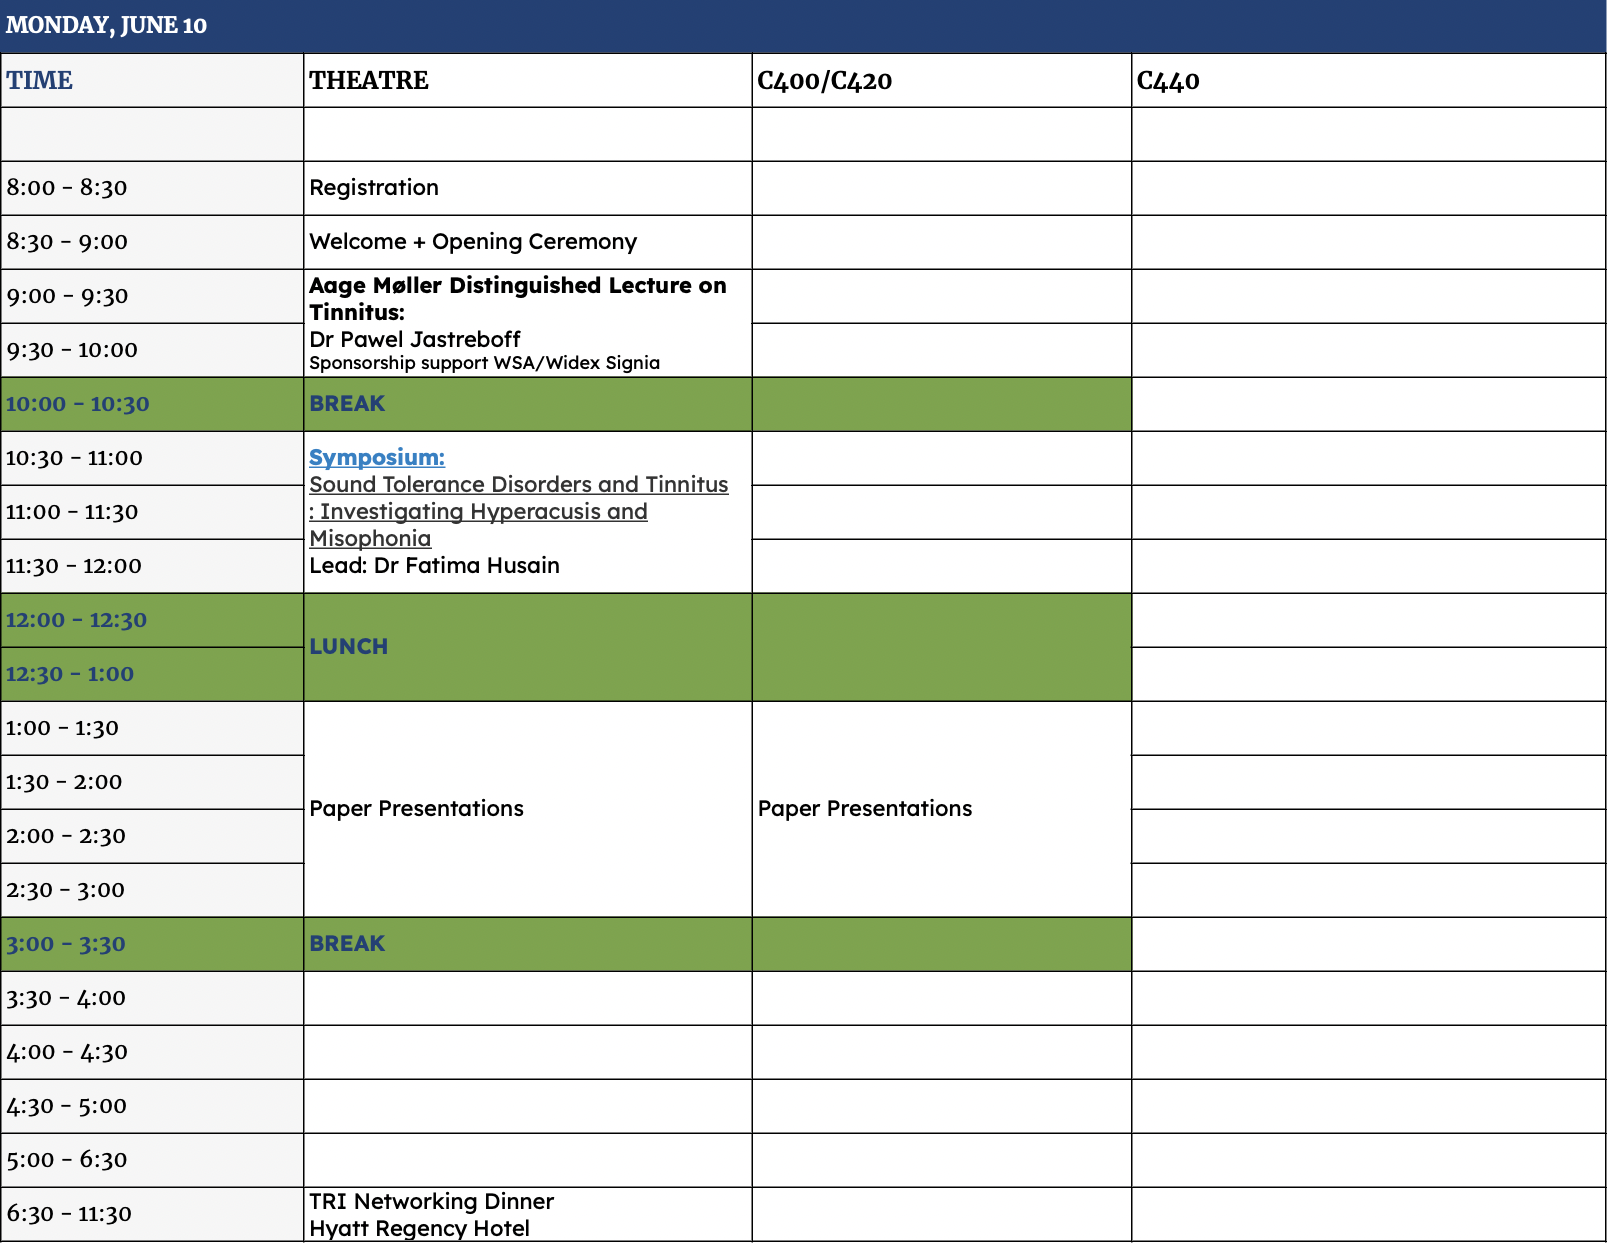
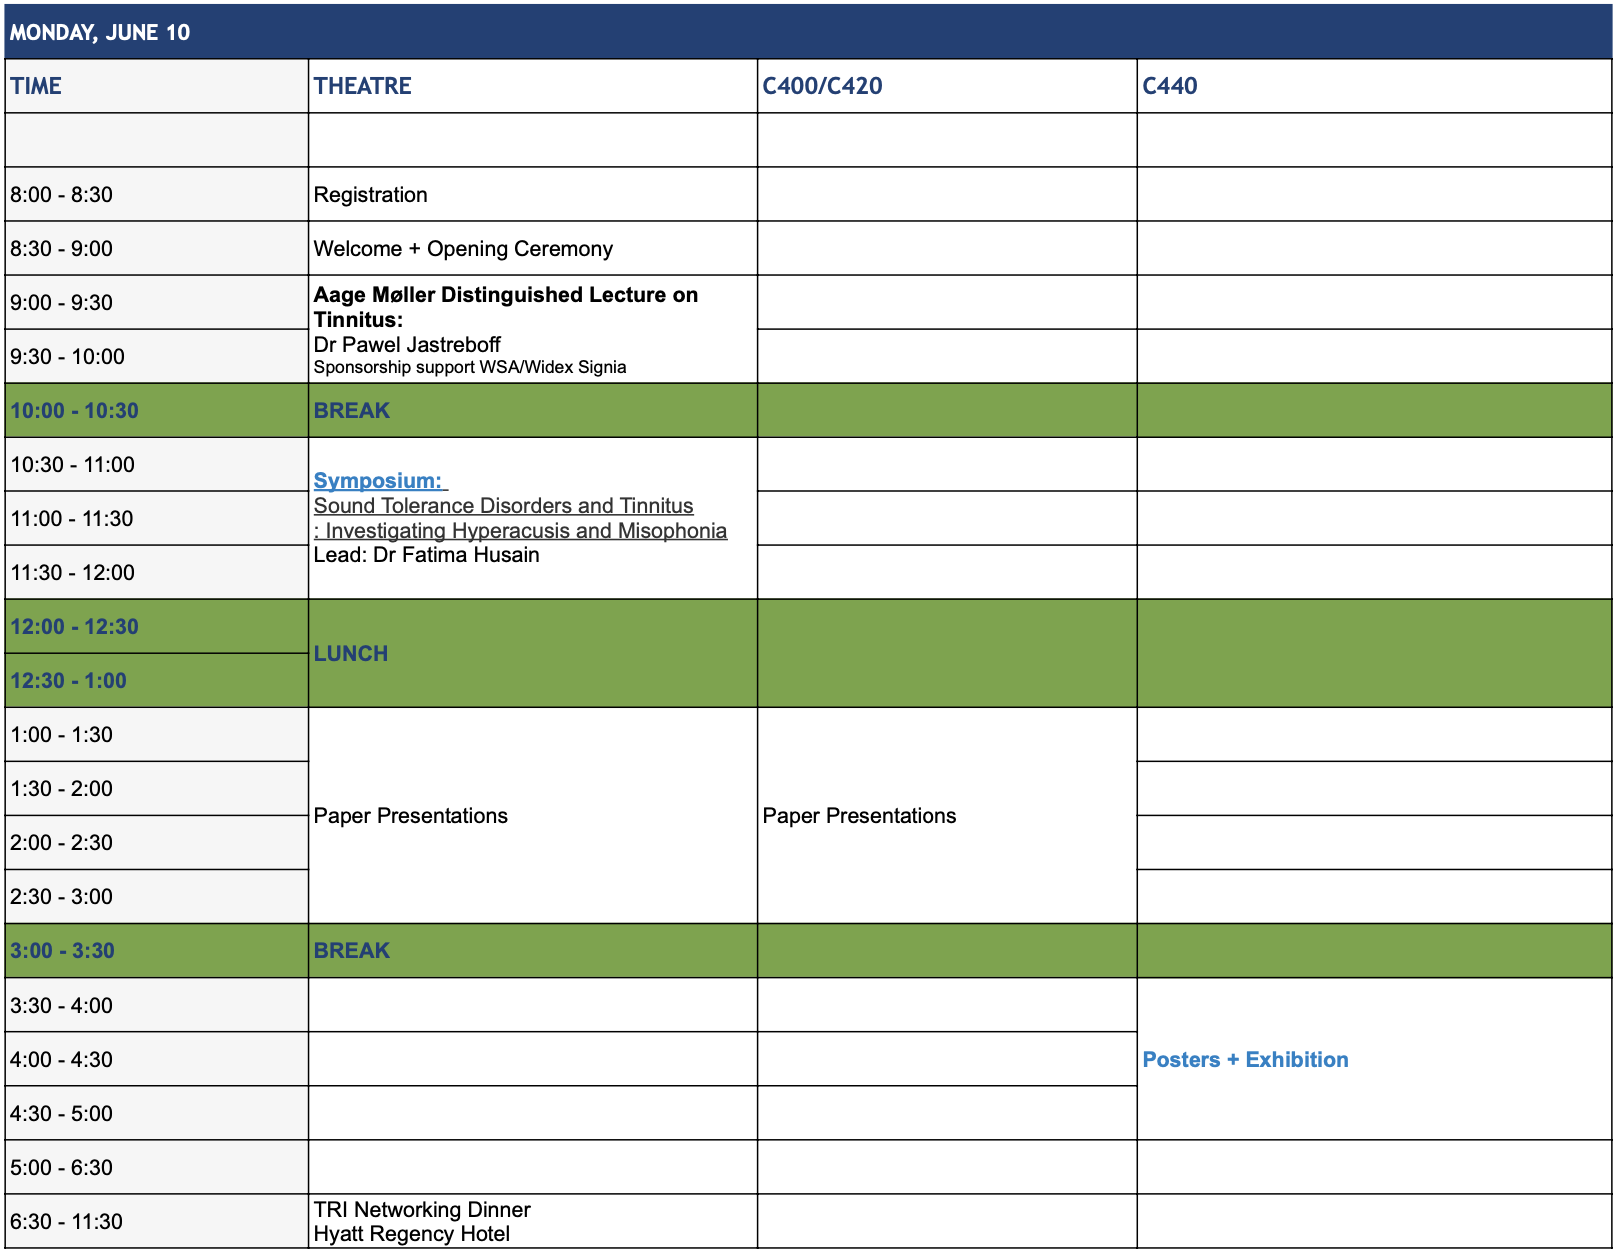
Adding new posters nimble.

diff --git a/src/Conference Program/ConferenceDropDownComponents/June10.tsx b/src/Conference Program/ConferenceDropDownComponents/June10.tsx
@@ -149,6 +149,7 @@ const June10 = () => {
           happen="Paper presentations"
           location="Room C400/C420"
         />
+
         <EventComponent
           time="13:00 - 15:00"
           happen="Sponsor presentation"
@@ -163,11 +164,11 @@ const June10 = () => {
 
         <EventComponent time="15:00 - 15:30" happen="Break" />
 
-        {/* <EventComponent
+        <EventComponent
           time="15:30 - 17:00"
-          happen="Poster session"
-          location="HSBC Hall"
-        /> */}
+          happen="Posters + Exhibititon"
+          location="Room C440"
+        />
 
         <div style={{ marginBottom: "0.5rem" }}>
           <EventComponent
